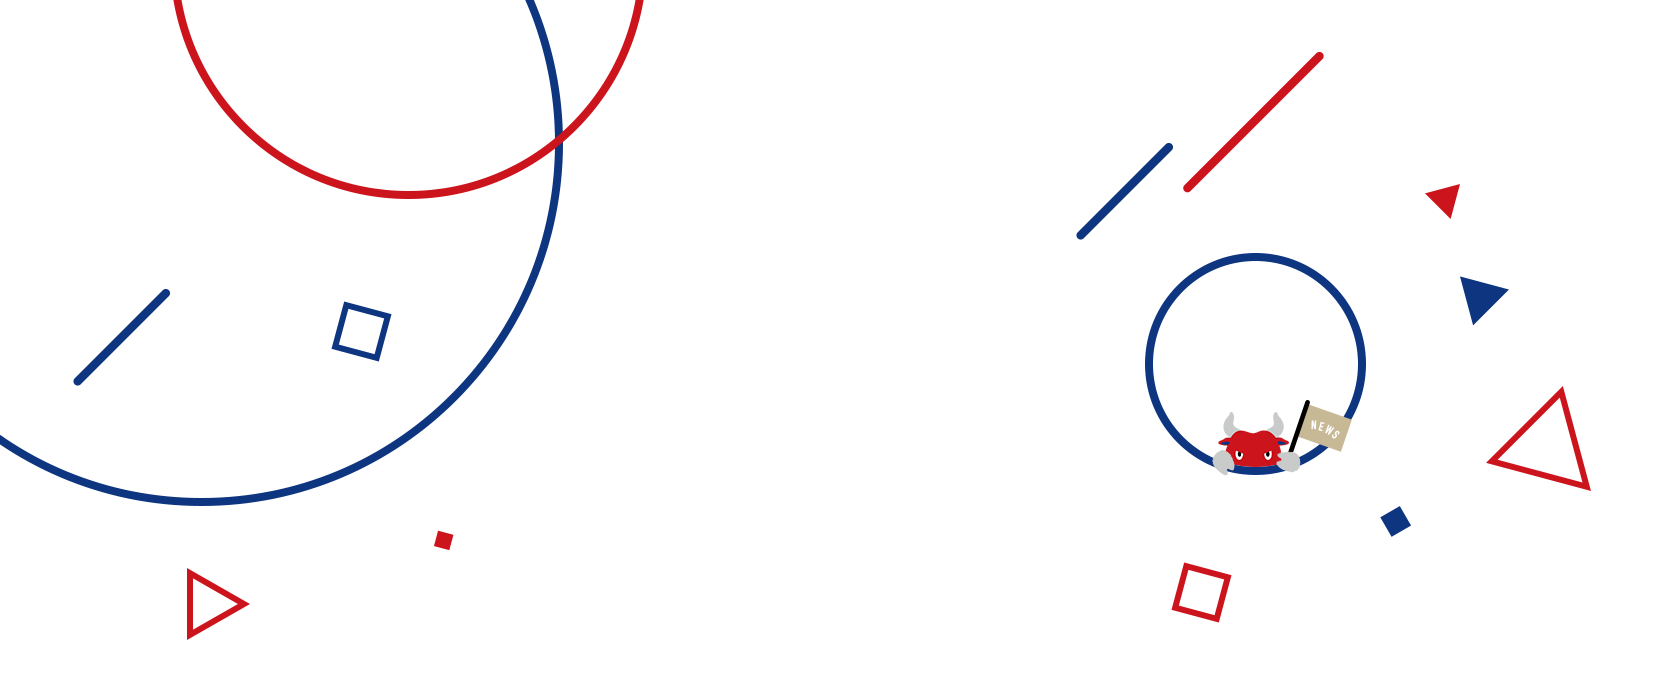
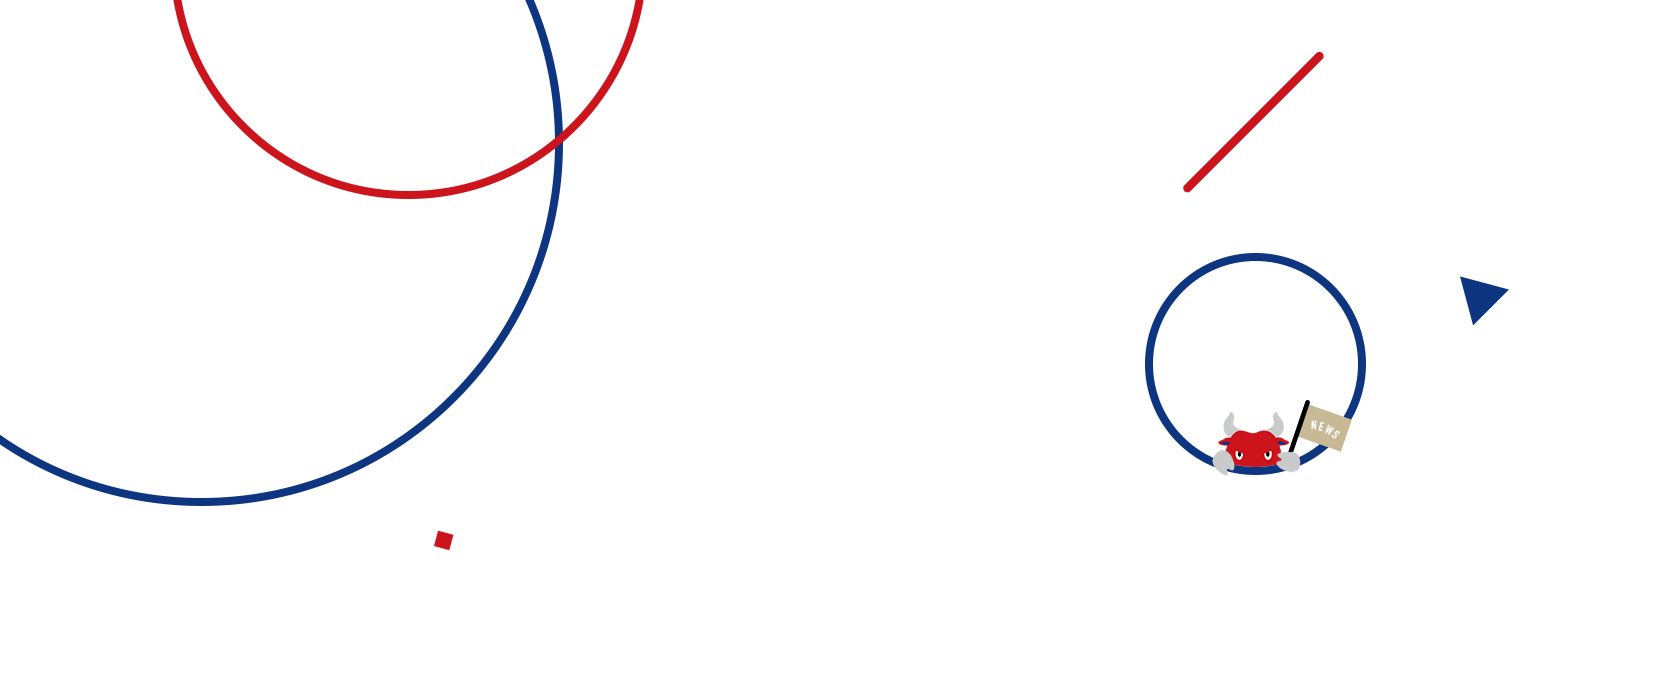
視差効果を調整 #2259

diff --git a/_src/app/bulls-station/index.html b/_src/app/bulls-station/index.html
@@ -82,8 +82,10 @@
           <div class="bulls_station__overview__inner">
 
             <div id="scene" class="bulls_station__overview__parallax">
-              <div data-depth="0.05" class="layer parallax__layer parallax__layer--shadow"><img src="/assets/images/bulls-station/overview-bg2_shadow.png" alt=""></div>
-              <div data-depth="0.20" class="layer parallax__layer parallax__layer--bustle"><img src="/assets/images/bulls-station/overview-bg2.png" alt=""></div>
+              <div data-depth="-0.05" class="layer parallax__layer parallax__layer--shadow1"><img src="/assets/images/bulls-station/overview-bg1_shadow.png" alt=""></div>
+              <div data-depth="0.10" class="layer parallax__layer parallax__layer--shadow2"><img src="/assets/images/bulls-station/overview-bg2_shadow.png" alt=""></div>
+              <div data-depth="-0.07" class="layer parallax__layer parallax__layer--bustle1"><img src="/assets/images/bulls-station/overview-bg1.png" alt=""></div>
+              <div data-depth="0.15" class="layer parallax__layer parallax__layer--bustle2"><img src="/assets/images/bulls-station/overview-bg2.png" alt=""></div>
             </div><!-- /#js-parallax -->
 
             <h1 class="bulls_station__overview__heading"><img src="/assets/images/bulls-station/overview-logo.png" alt="BULL'S STATION"></h1>

diff --git a/_src/app/assets/css/bulls-station/ui.scss b/_src/app/assets/css/bulls-station/ui.scss
@@ -149,7 +149,30 @@
 .bulls_station__overview {
   // width: 1480px;
   // margin: 0 auto;
-  background: url(/assets/images/bulls-station/overview-bg1.png) center center repeat;
+  position: relative;
+  background: url(/assets/images/bulls-station/overview-base.png) center center repeat;
+
+  &:before {
+    content: "";
+    position: absolute;
+    top: 0;
+    left: -50%;
+    width: 100%;
+    height: 100%;
+    margin-left: -740px;
+    background-color: #f5f5f5;
+  }
+
+  &:after {
+    content: "";
+    position: absolute;
+    width: 100%;
+    height: 100%;
+    top: 0;
+    left: 50%;
+    margin-left: 740px;
+    background-color: #f5f5f5;
+  }
 
   //.bulls_station__overview__outer
   &__outer {

diff --git a/app/templates/bulls-station/desktop/index.php b/app/templates/bulls-station/desktop/index.php
@@ -90,8 +90,10 @@ include_once __DIR__."/../_include/_bulls_station_func.php";
           <div class="bulls_station__overview__inner">
 
             <div id="scene" class="bulls_station__overview__parallax">
-              <div data-depth="0.05" class="layer parallax__layer parallax__layer--shadow"><img src="/assets/images/bulls-station/overview-bg2_shadow.png" alt=""></div>
-              <div data-depth="0.20" class="layer parallax__layer parallax__layer--bustle"><img src="/assets/images/bulls-station/overview-bg2.png" alt=""></div>
+              <div data-depth="-0.05" class="layer parallax__layer parallax__layer--shadow1"><img src="/assets/images/bulls-station/overview-bg1_shadow.png" alt=""></div>
+              <div data-depth="0.10" class="layer parallax__layer parallax__layer--shadow2"><img src="/assets/images/bulls-station/overview-bg2_shadow.png" alt=""></div>
+              <div data-depth="-0.07" class="layer parallax__layer parallax__layer--bustle1"><img src="/assets/images/bulls-station/overview-bg1.png" alt=""></div>
+              <div data-depth="0.15" class="layer parallax__layer parallax__layer--bustle2"><img src="/assets/images/bulls-station/overview-bg2.png" alt=""></div>
             </div><!-- /#js-parallax -->
 
             <h1 class="bulls_station__overview__heading"><img src="/assets/images/bulls-station/overview-logo.png" alt="BULL'S STATION"></h1>
